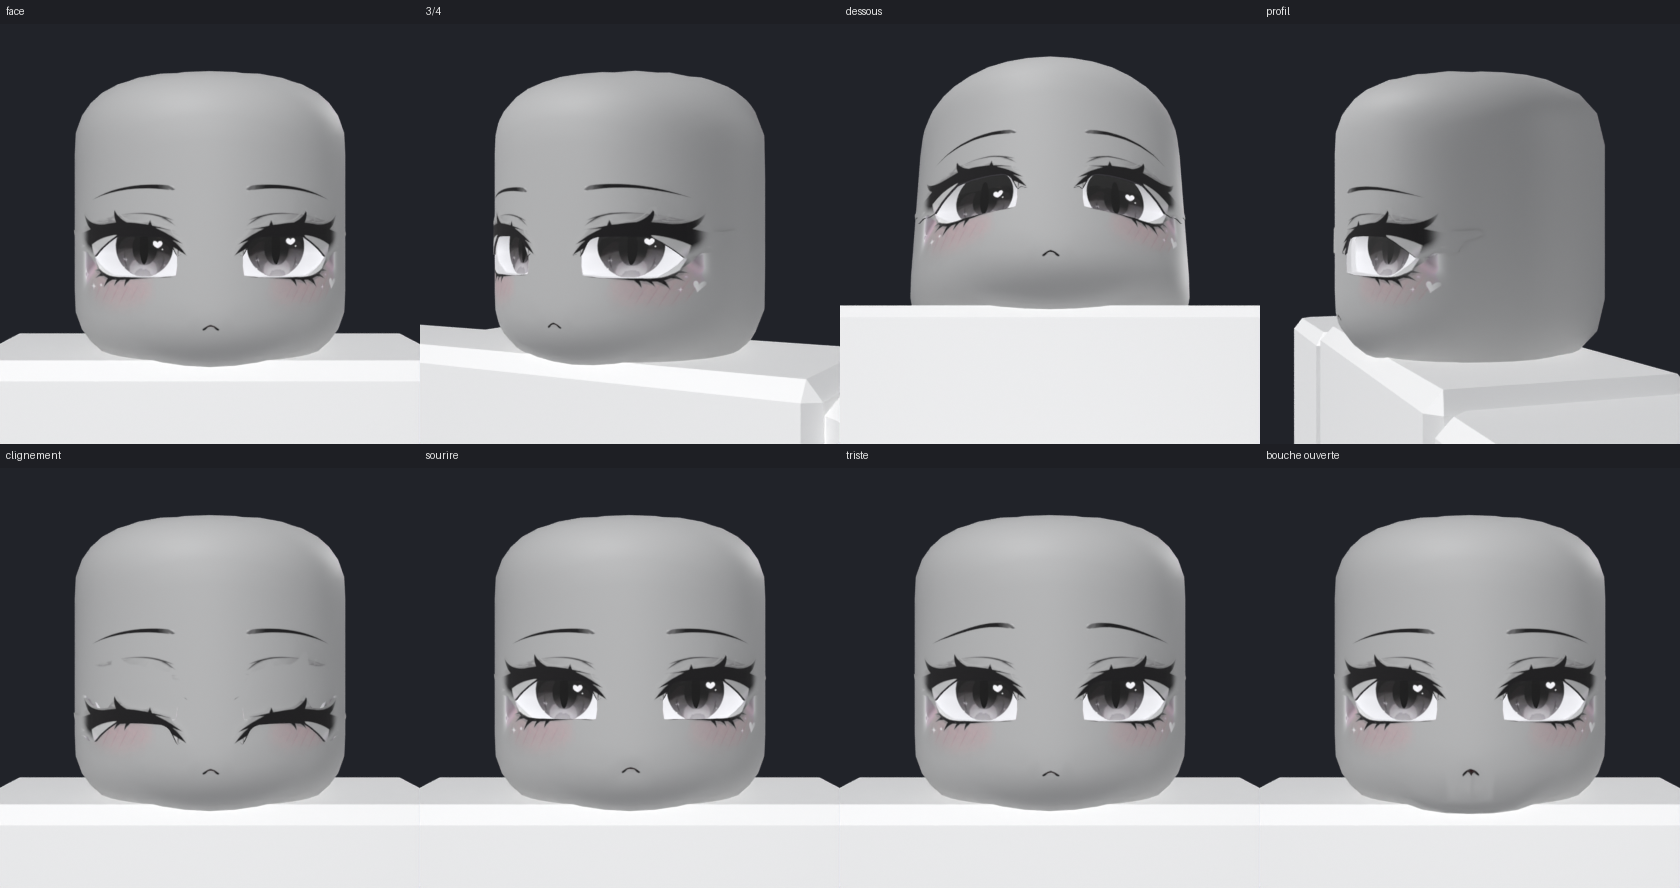
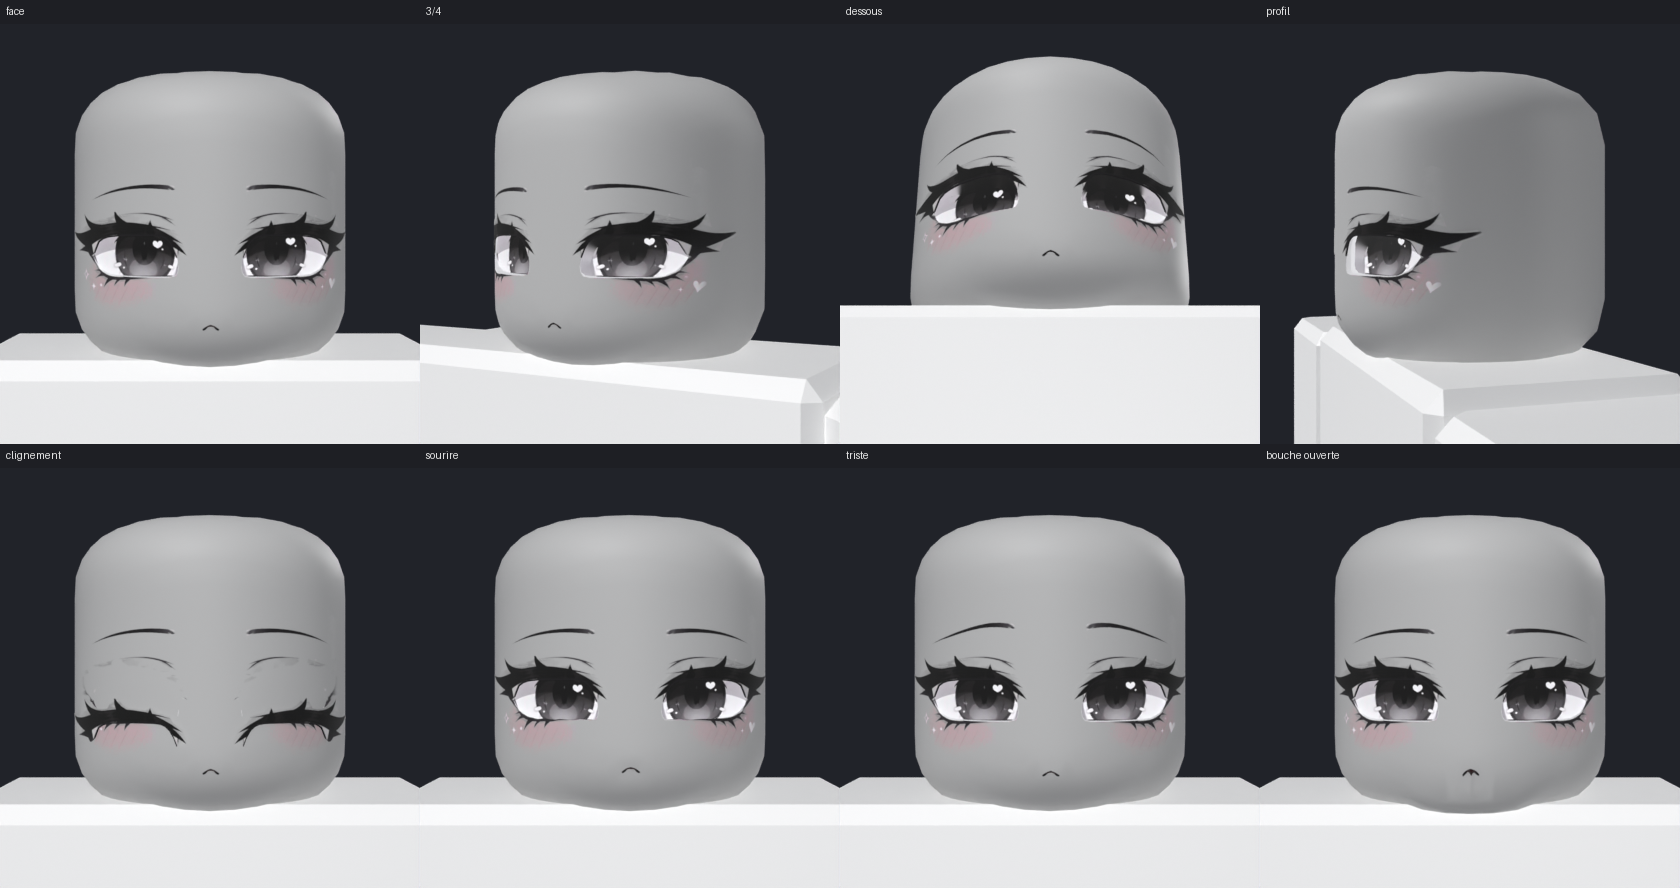
Girl head from the drawing v2: exact full-res extraction (blush, sparkles, heart, brow tips), eye interior copied from the drawing, traced eye outline (rounded inner corner), opaque matte drawn eyeliner following the head curve
Claude-Session: https://claude.ai/code/session_01CBiVczwoBfbRJYLHozwUtQ

diff --git a/dynamic_head_anime/tools/extract_face.py b/dynamic_head_anime/tools/extract_face.py
@@ -118,7 +118,37 @@ if not COLOR_FACE:
     alpha *= _keep
 INK = np.array([14, 12, 15], np.float32)
 INKCOL = None
+SRCMAP = None
 if COLOR_FACE:
+    # exact separation on the FULL-RESOLUTION source: skin estimate S (smooth, features inpainted), then the minimal
+    # alpha that explains each pixel as colour C over S (C in 0..255) -> composited back over the same skin it gives the
+    # drawing exactly (blush intensity, white sparkles / hearts, thin brow tips all kept)
+    _src = cv2.cvtColor(cv2.imread(os.path.join(os.path.dirname(SRC), GIRL2_SRC['path'])), cv2.COLOR_BGR2RGB).astype(np.float32)
+    _gs = _src.mean(2)
+    # skin: the drawing's skin is one flat grey (+-4 of render lighting, which is NOT part of the drawing); the
+    # recolourable head supplies its own shading, so the skin reference is that flat grey
+    _hs, _ws = _gs.shape
+    _chroma = _src.max(2) - _src.min(2)
+    _sel = (_chroma <= 6) & (_gs > 120) & (_gs < 170)
+    _sel[:, :200] = False; _sel[:, -200:] = False
+    _Sc = np.median(_src[_sel], axis=0)
+    _Ss = np.broadcast_to(_Sc, _src.shape).astype(np.float32)
+    _d = _src - _Ss
+    _al = (np.clip(_d, 0, None) / np.maximum(255 - _Ss, 1)).max(2)          # lighter than the skin (white marks)
+    _ad = (np.clip(-_d, 0, None) / np.maximum(_Ss, 1)).max(2)              # darker / tinted (ink, blush)
+    def _ss(e0, e1, v): t = np.clip((v - e0) / (e1 - e0), 0, 1); return t * t * (3 - 2 * t)
+    _an = np.where(_al > _ad, _al * _ss(0.05, 0.12, _al), _ad * _ss(0.045, 0.09, _ad))   # render lighting (<~5%) dropped
+    _an = np.clip(_an, 0, 1)
+    _cs = np.clip(_Ss + _d / np.maximum(_an, 1e-3)[..., None], 0, 255)
+    # ink (dark, grey): fully opaque with its own colour (the liner's sheen streaks stay as drawn, no skin through it)
+    _ink = (1 - _ss(0.40, 0.62, _gs / max(float(_Sc.mean()), 1))) * (1 - _ss(10, 22, _src.max(2) - _src.min(2)))
+    _cs = _cs * (1 - _ink[..., None]) + _src * _ink[..., None]
+    _an = np.maximum(_an, _ink)
+    SRCMAP = dict(a=_an.astype(np.float32), c=_cs.astype(np.float32), img=_src)
+    def src_coords(px, py):
+        g_ = GIRL2_SRC
+        return ((g_['sx0'] + (px - g_['dx0']) * (g_['sx1'] - g_['sx0']) / (g_['dx1'] - g_['dx0'])).astype(np.float32),
+                (g_['sy0'] + (py - g_['dy0']) * (g_['sy1'] - g_['sy0']) / (g_['dy1'] - g_['dy0'])).astype(np.float32))
     # premultiplied separation against the skin estimate: works for black ink, pink blush and white sparkles alike
     _d = im - skin
     _a = np.clip(np.abs(_d).max(2) / 115.0, 0, 1)
@@ -150,7 +180,10 @@ for side in 'RL':
     _wz = np.maximum(_wz, np.clip(np.maximum(_e0 + 2 - _x, _x - _e1 - 2) / 6, 0, 1) * ((_x > _e0 - 90) & (_x < _e1 + 90)))
 lash_mask = (lash_mask * (1 - _wz[None, :]) + np.minimum(lash_mask, wing_mask) * _wz[None, :]).astype(np.uint8)
 ALPHA_FULL = alpha.copy()                              # (girl2: copied onto the 3D eyeliner before erasing)
-alpha *= 1 - cv2.GaussianBlur(lash_mask.astype(np.float32) / 255, (0, 0), 1.0)
+if FACE_STYLE == 'girl2':                              # erase only the ink of the liner / lashes, not the eyeshadow
+    lash_mask = np.minimum(lash_mask, cv2.dilate((ALPHA_FULL > 0.3).astype(np.uint8) * 255, np.ones((5, 5), np.uint8)))
+ERASE = cv2.GaussianBlur(lash_mask.astype(np.float32) / 255, (0, 0), 1.0)
+alpha *= 1 - ERASE
 # outer wing: the drawn lower stroke and the 3D eyeliner meet at the tip with a thin wedge of skin between them; fill
 # that wedge with ink (closing of ink + eyeliner band + opening, only beyond the outer corners) -> one solid wing
 _solid = np.maximum((alpha > 0.45).astype(np.uint8) * 255, 0)
@@ -197,6 +230,11 @@ em_s = cv2.remap(eye_mask.astype(np.float32) / 255, mx, my, cv2.INTER_LINEAR, bo
 face = np.zeros((fh, fw, 4), np.float32)
 face[..., :3] = INK if INKCOL is None else cv2.remap(INKCOL.astype(np.float32), mx, my, cv2.INTER_LINEAR, borderValue=0)
 face[..., 3] = a_s
+if SRCMAP is not None:
+    _mult = cv2.GaussianBlur(head.astype(np.float32), (0, 0), 3) * cv2.GaussianBlur(_win, (0, 0), 6) * (1 - ERASE)
+    _sx, _sy = src_coords(mx, my)
+    face[..., 3] = cv2.remap(SRCMAP['a'], _sx, _sy, cv2.INTER_CUBIC, borderValue=0).clip(0, 1) * cv2.remap(_mult, mx, my, cv2.INTER_LINEAR, borderValue=0)
+    face[..., :3] = cv2.remap(SRCMAP['c'], _sx, _sy, cv2.INTER_LINEAR, borderValue=0)
 # around/inside the openings keep the exact image pixels (no skin-coloured sliver at the rim)
 face[..., :3] = face[..., :3] * (1 - em_s[..., None]) + rgb_s * em_s[..., None]
 face[..., 3] = np.maximum(face[..., 3], em_s)
@@ -357,6 +395,33 @@ for side in 'RL':
     atlas[ry:ry + rh, rx:rx + rw, :3] = t8
     atlas[ry:ry + rh, rx:rx + rw, 3] = 255
 
+if SRCMAP is not None:
+    # the inside of the eyes = the drawing itself (every white dot, the shaded white, the iris as drawn), sampled at
+    # full resolution; the parts hidden under the skin / eyeliner are filled by extending the drawn eye outwards
+    _src = SRCMAP['img']
+    _om = np.zeros(_src.shape[:2], np.uint8)
+    for side in 'RL':
+        _ps = np.array([img2src(*p) for p in EYE_PX[side]], np.float32)
+        cv2.fillPoly(_om, [np.round(_ps * 8).astype(np.int32)], 255, cv2.LINE_AA, 3)
+    _om = cv2.erode((_om > 127).astype(np.uint8), np.ones((5, 5), np.uint8))
+    _y0, _y1, _x0, _x1 = 380, 900, 120, 1140
+    _crop = _src[_y0:_y1, _x0:_x1]
+    _sc = 0.5
+    _cs_ = cv2.resize(_crop, None, fx=_sc, fy=_sc, interpolation=cv2.INTER_AREA).astype(np.uint8)
+    _ms_ = cv2.resize(1 - _om[_y0:_y1, _x0:_x1], (_cs_.shape[1], _cs_.shape[0]), interpolation=cv2.INTER_NEAREST)
+    _fill = cv2.inpaint(_cs_, _ms_, 6, cv2.INPAINT_TELEA).astype(np.float32)
+    _fill = cv2.resize(_fill, (_x1 - _x0, _y1 - _y0), interpolation=cv2.INTER_CUBIC)
+    _inside = cv2.GaussianBlur(_om[_y0:_y1, _x0:_x1].astype(np.float32), (0, 0), 0.8)[..., None]
+    _eyeimg = np.array(_src, copy=True)
+    _eyeimg[_y0:_y1, _x0:_x1] = _crop * _inside + _fill * (1 - _inside)
+    for side in 'RL':
+        x0, x1, z0, z1 = eye_tex_box(side); rx, ry, rw, rh = eye_rect(side)
+        yy, xx = np.mgrid[0:rh, 0:rw]
+        xs_ = x0 + (xx - 1 + 0.5) / (rw - 2) * (x1 - x0); zs_ = z1 - (yy - 1 + 0.5) / (rh - 2) * (z1 - z0)
+        _qx, _qy = src_coords((CX + xs_ * SX), (CY - zs_ * SY))
+        atlas[ry:ry + rh, rx:rx + rw, :3] = cv2.remap(_eyeimg, _qx, _qy, cv2.INTER_CUBIC, borderMode=cv2.BORDER_REPLICATE).clip(0, 255)
+        atlas[ry:ry + rh, rx:rx + rw, 3] = 255
+
 # --- lids: skin (transparent) with the lash line along the closing edge
 for side in 'RL':
     rx, ry, rw, rh = LID_RECT[side]
@@ -389,8 +454,9 @@ if FACE_STYLE == 'girl2':
         x0, x1, y0, y1 = liner_box_px(side); rx, ry, rw, rh = LINER_RECT[side]; k = liner_scale(side)
         yy_, xx_ = np.mgrid[0:rh, 0:rw]
         sx_ = (x0 + (xx_ + 0.5) / k).astype(np.float32); sy_ = (y0 + (yy_ + 0.5) / k).astype(np.float32)
-        a_c = cv2.remap(ALPHA_FULL.astype(np.float32), sx_, sy_, cv2.INTER_LINEAR, borderValue=0)
-        c_c = cv2.remap((INKCOL if INKCOL is not None else np.broadcast_to(INK, im.shape)).astype(np.float32), sx_, sy_, cv2.INTER_LINEAR, borderValue=0)
+        _qx, _qy = src_coords(sx_, sy_)
+        a_c = cv2.remap(SRCMAP['a'], _qx, _qy, cv2.INTER_CUBIC, borderValue=0).clip(0, 1) * cv2.remap(cv2.GaussianBlur(head.astype(np.float32), (0, 0), 3), sx_, sy_, cv2.INTER_LINEAR, borderValue=0)
+        c_c = cv2.remap(SRCMAP['c'], _qx, _qy, cv2.INTER_LINEAR, borderValue=0)
         e_c = cv2.remap(eye_mask.astype(np.float32) / 255, sx_, sy_, cv2.INTER_LINEAR, borderValue=0)
         c_c = c_c * (1 - e_c[..., None]) + INK * e_c[..., None]; a_c = np.maximum(a_c, e_c)
         atlas[ry:ry + rh, rx:rx + rw, :3] = c_c; atlas[ry:ry + rh, rx:rx + rw, 3] = a_c * 255
@@ -423,6 +489,9 @@ cv2.imwrite(f'{OUT}/HeadTexture_Emissive.png', np.clip(emis, 0, 255).astype(np.u
 # roughness: 1 (no reflection) on everything opaque (eye interior, ink, eyeliner); skin 0.6
 a = out[..., 3].astype(np.float32) / 255
 rough = (0.6 * (1 - a) + 1.0 * a) * 255
+if FACE_STYLE == 'girl2':                              # the drawn 3D eyeliner: fully matte
+    for _r in LINER_RECT.values():
+        rough[_r[1]:_r[1] + _r[3], _r[0]:_r[0] + _r[2]] = 255
 cv2.imwrite(f'{OUT}/HeadTexture_Roughness.png', np.clip(rough, 0, 255).astype(np.uint8))
 # metalness: 0 everywhere except the PUPIL (white = metal): the 3D black ball (style 'sphere') or the drawn pupil oval
 # (style 'flat'); a black metal reflects (almost) nothing straight on -> the deepest black

diff --git a/dynamic_head_anime/tools/build_head.py b/dynamic_head_anime/tools/build_head.py
@@ -530,7 +530,7 @@ def skin_y(x, z):
     return max(loc.y, sy)                # the deeper of the two (chords of the shell lie behind the base surface)
 LID_DOME = 0.004
 LID_COLS, LID_ROWS = 12, 7     # columns: one tucked beyond each corner, one right at the outline, 12 across
-LASH_T = 0.005 if FACE_STYLE == 'girl2' else 0.011   # eyeliner thickness in front of the face
+LASH_T = 0.003 if FACE_STYLE == 'girl2' else 0.011   # eyeliner thickness in front of the face
 DRAWN_LASH = FACE_STYLE == 'girl2'   # the 3D eyeliner carries the drawing itself (front faces use the face texture)
 LASH_OVER = 0.0055        # eyeliner overhang below the opening's top rim
 def smoothstep(a, b, x):
@@ -692,7 +692,7 @@ def resample(chain, n):
         u = (t - L[i - 1]) / max(L[i] - L[i - 1], 1e-9)
         out.append((chain[i - 1][0] + (chain[i][0] - chain[i - 1][0]) * u, chain[i - 1][1] + (chain[i][1] - chain[i - 1][1]) * u))
     return out
-LASH_COLS = 48 if DRAWN_LASH else 22
+LASH_COLS = 34 if DRAWN_LASH else 22
 for s in 'LR':
     poly = lash_poly_studs(s)
     i0 = min(range(len(poly)), key=lambda i: poly[i][0]); i1 = max(range(len(poly)), key=lambda i: poly[i][0])
@@ -725,13 +725,27 @@ for s in 'LR':
     T_ = [mk(*p) for p in top]; B_ = [mk(*p) for p in bot[1:-1]]
     B_ = [T_[0]] + B_ + [T_[-1]]                                   # tips shared
     for v in {v for pair in T_ + B_ for v in pair}: lash_verts[s].append(v)
-    for i in range(LASH_COLS):
-        vs = [T_[i][0], T_[i + 1][0], B_[i + 1][0], B_[i][0]]
-        vs = list(dict.fromkeys(vs))
-        f = bm.faces.new(vs); f.smooth = True
-        f.normal_update()
-        if f.normal.y > 0: f.normal_flip()
-        for l in f.loops: l[uvl].uv = liner_uv(s, l.vert.co.x, l.vert.co.z) if DRAWN_LASH else LASH_UV
+    # front: rows between the top and bottom chains, each point projected on the head surface (the band follows the
+    # curve of the head at the eye corners instead of cutting across it)
+    NR = 3 if DRAWN_LASH else 1
+    rows_ = [[v[0] for v in T_]]
+    for r_ in range(1, NR):
+        t_ = r_ / NR; row = []
+        for i in range(LASH_COLS + 1):
+            if i in (0, LASH_COLS): row.append(T_[i][0]); continue
+            x_ = top[i][0] + (bot[i][0] - top[i][0]) * t_; z_ = top[i][1] + (bot[i][1] - top[i][1]) * t_
+            fv, bv = mk(x_, z_); bm.verts.remove(bv); row.append(fv); lash_verts[s].append(fv)
+        rows_.append(row)
+    rows_.append([v[0] for v in B_])
+    for r_ in range(NR):
+        for i in range(LASH_COLS):
+            vs = [rows_[r_][i], rows_[r_][i + 1], rows_[r_ + 1][i + 1], rows_[r_ + 1][i]]
+            vs = list(dict.fromkeys(vs))
+            if len(vs) < 3: continue
+            f = bm.faces.new(vs); f.smooth = True
+            f.normal_update()
+            if f.normal.y > 0: f.normal_flip()
+            for l in f.loops: l[uvl].uv = liner_uv(s, l.vert.co.x, l.vert.co.z) if DRAWN_LASH else LASH_UV
     loop = T_ + B_[-2:0:-1]                                        # outline (front, back pairs)
     # outward direction of each outline edge from the outline's winding (the hooked inner end is concave: a
     # "away from the centroid" test flipped some underside faces inwards -> invisible in Roblox, white showed through)
@@ -744,8 +758,11 @@ for s in 'LR':
         ex_, ez_ = fb.co.x - fa.co.x, fb.co.z - fa.co.z
         out_ = (ez_, -ex_) if area2 > 0 else (-ez_, ex_)            # right-hand normal of a CCW outline points out
         if f.normal.x * out_[0] + f.normal.z * out_[1] < 0: f.normal_flip()
-        side_uv = LASH_SIDE_UV if (not DRAWN_LASH or f.normal.z < -0.3) else rect_center_uv(LASH_CLEAR_RECT)   # drawn: skin-coloured edges
-        for l in f.loops: l[uvl].uv = side_uv
+        if DRAWN_LASH:            # drawn: bottom edge = the liner's own (black) edge, other edges skin-coloured
+            for l in f.loops:
+                l[uvl].uv = liner_uv(s, l.vert.co.x, l.vert.co.z) if f.normal.z < -0.3 else rect_center_uv(LASH_CLEAR_RECT)
+        else:
+            for l in f.loops: l[uvl].uv = LASH_SIDE_UV
 bm.normal_update()
 if False:
     # the drawing of the eyeliner now lives on the 3D eyeliner: the skin under it is plain skin (when the eye closes

diff --git a/dynamic_head_anime/tools/layout.py b/dynamic_head_anime/tools/layout.py
@@ -50,8 +50,15 @@ if FACE_STYLE == 'girl':
     PUPIL_AB = (0.40, 0.46)            # big soft round pupil
     BROW_PX = {'R': ((470, 503), (286, 496))}
 
-GIRL2_EYE = [(258, 606), (275, 588), (295, 572), (316, 558), (350, 557), (390, 557), (425, 559), (440, 566), (450, 585),
-             (458, 602), (458, 625), (455, 645), (420, 650), (380, 651), (340, 651), (305, 650), (285, 636), (270, 622)]
+GIRL2_EYE = [(252, 606), (258, 590), (267, 571), (280, 563), (295, 559), (318, 557), (340, 555.5), (370, 555.5),
+             (405, 555.5), (425, 558), (437, 565), (446, 578), (452, 590), (457, 602), (460, 614), (461, 627), (459, 639),
+             (454, 647), (440, 650), (405, 651), (360, 651), (320, 650), (292, 647), (272, 636), (259, 620)]
+# the source image (full resolution) and how it maps onto the reference frame (head silhouette -> IMG box)
+GIRL2_SRC = dict(path='face_ref2_src.png', sx0=152, sx1=1099, sy0=127, sy1=1073, dx0=175, dx1=889, dy0=170, dy1=880)
+def img2src(px, py):
+    g = GIRL2_SRC
+    return (g['sx0'] + (px - g['dx0']) * (g['sx1'] - g['sx0']) / (g['dx1'] - g['dx0']),
+            g['sy0'] + (py - g['dy0']) * (g['sy1'] - g['sy0']) / (g['dy1'] - g['dy0']))
 GIRL2_LASH = [(250, 585), (252, 566), (270, 549), (300, 539), (350, 535), (395, 536), (420, 541), (442, 553), (460, 574),
               (474, 598), (458, 601), (448, 585), (436, 566), (420, 559), (380, 557), (340, 557), (316, 558), (290, 578),
               (270, 596), (258, 606)]
@@ -97,7 +104,10 @@ if FACE_STYLE == 'girl2':
     _lj = _os.path.join(_os.path.dirname(_os.path.abspath(__file__)), '..', 'in', 'girl2_lash.json')
     if _os.path.exists(_lj):                 # traced from the drawing (trace_liner.py): liner + lashes + wing
         import json as _json
-        LASH_PX['R'] = [tuple(p) for p in _json.load(open(_lj))['R']]
+        _jd = _json.load(open(_lj))
+        LASH_PX['R'] = [tuple(p) for p in _jd['R']]
+        if 'EYE' in _jd and _os.environ.get('GIRL2_EYE_TRACED', '0') == '1':
+            EYE_PX['R'] = [tuple(p) for p in _jd['EYE']]; EYE_PX['L'] = _mirror_poly(EYE_PX['R'])
 if MIRROR_EYES:
     LASH_PX['L'] = _mirror_poly(LASH_PX['R'])
 # the 3D eyeliner is shorter than the drawn one: the part beyond the eye opening (the wing / the inner tip) keeps only

diff --git a/dynamic_head_anime/tools/trace_liner.py b/dynamic_head_anime/tools/trace_liner.py
@@ -52,5 +52,36 @@ for x in range(int(x_lo), int(x_hi) + 1, step):
     b_ = te if te is not None else ys.max() + 2.0
     top.append((float(x), float(t_))); bot.append((float(x), float(max(b_, t_ + 4))))
 poly = [top[0]] + top[1:] + bot[::-1]
-json.dump(dict(R=poly), open(DST, 'w'))
+# the eye opening, from the drawing: top edge = just under the drawn eyeliner ink, bottom edge = just above the drawn
+# lower lash line; the ends are the points where they meet (rounded inner corner, pointed outer corner)
+inkall = (g < 70)
+ys_top, ys_bot, xs_e = [], [], []
+for x in range(int(ex0) - 6, int(ex1) + 8):
+    c = comp[:, x]
+    ys = np.where(c[500:640])[0]
+    if len(ys) == 0: continue
+    yt = 500 + ys.max() + 1                                       # first row under the liner
+    col = inkall[yt + 2:700, x]
+    lower = np.where(col)[0]
+    # the lower lash line: the first ink row at least 6 px below, that continues for >= 2 rows
+    yb = None
+    for k in lower:
+        if k > 6 and col[k:k + 2].all(): yb = yt + 2 + k; break
+    if yb is None or yb - yt < 4: continue
+    xs_e.append(x); ys_top.append(yt + 0.5); ys_bot.append(yb - 0.5)
+xs_e = np.array(xs_e, float); ys_top = np.array(ys_top); ys_bot = np.array(ys_bot)
+ok = (ys_bot - ys_top) > 3
+xs_e, ys_top, ys_bot = xs_e[ok], ys_top[ok], ys_bot[ok]
+k = 7
+st = np.convolve(np.pad(ys_top, k // 2, mode='edge'), np.ones(k) / k, 'valid')
+sb = np.convolve(np.pad(ys_bot, k // 2, mode='edge'), np.ones(k) / k, 'valid')
+idx = np.linspace(0, len(xs_e) - 1, 16).round().astype(int)
+eye_top = [(float(xs_e[i]), float(st[i])) for i in idx]
+eye_bot = [(float(xs_e[i]), float(sb[i])) for i in idx[::-1][1:-1]]
+# rounded inner end: a short arc between the last top and bottom points
+xi_, ti_, bi_ = xs_e[-1], st[-1], sb[-1]
+arc = [(float(xi_ + 3.5 * np.sin(a)), float((ti_ + bi_) / 2 - (bi_ - ti_) / 2 * np.cos(a))) for a in np.linspace(0.5, 2.6, 4)]
+eye_poly = eye_top + arc + eye_bot
+json.dump(dict(R=poly, EYE=eye_poly), open(DST, 'w'))
+print('eye opening from the drawing: x', int(xs_e[0]), int(xs_e[-1]), 'top', round(float(st.min()), 1), 'bottom', round(float(sb.max()), 1))
 print('liner outline points', len(poly), 'x', int(x_lo), int(x_hi), 'top', int(min(p[1] for p in top)))
